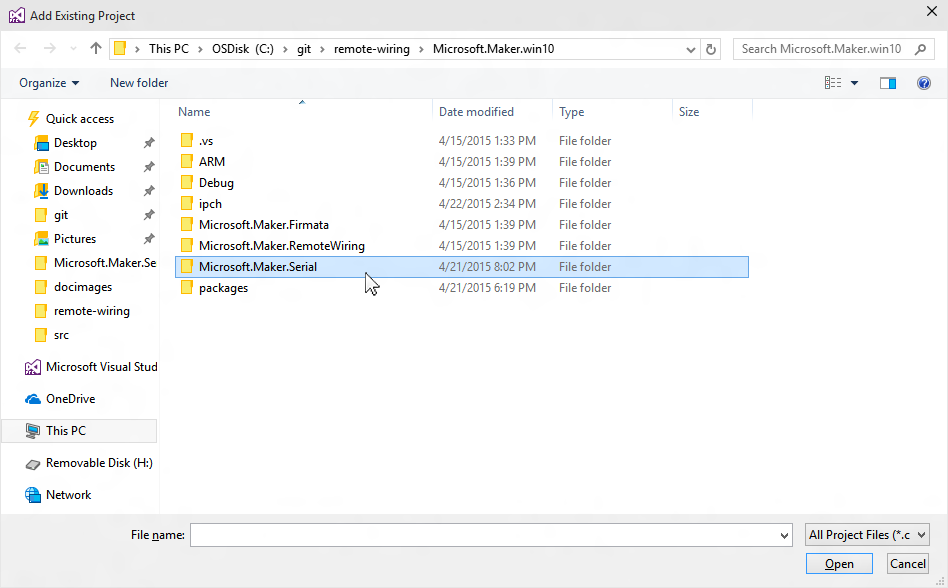
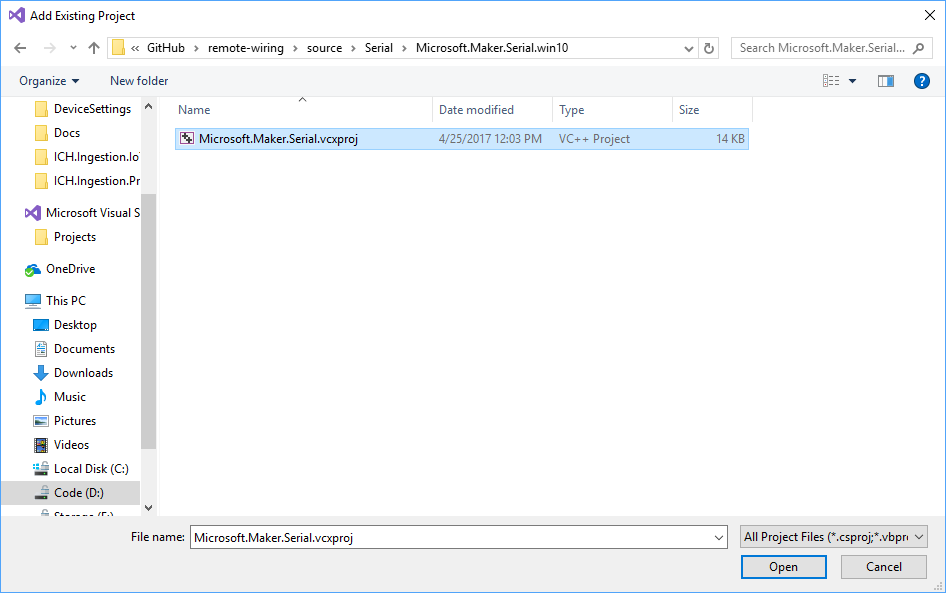
Bug 9772487 Feedback on WRA doc

diff --git a/_includes/setup-pc-wra.md b/_includes/setup-pc-wra.md
@@ -46,7 +46,7 @@
     <p><img src="{{site.baseurl}}/Resources/images/remote-wiring/compile_00.png" /></p>
   </li>
   <li>
-    <p>We need to add three projects - <b>Microsoft.Maker.Firmata</b>, <b>Microsoft.Maker.RemoteWiring</b>, and <b>Microsoft.Maker.Serial</b> - to the project solution.  Let's start with the Serial project (Microsoft.Maker.Serial). Open this directory.</p>
+    <p>We need to add three projects - <b>Microsoft.Maker.Firmata</b>, <b>Microsoft.Maker.RemoteWiring</b>, and <b>Microsoft.Maker.Serial</b> - to the project solution.  Let's start with the Serial project (Microsoft.Maker.Serial). Open the <b>source\Serial\Microsoft.Maker.Serial.win10</b> folder and add Microsoft Microsoft.Maker.Serial.vcxproj to the solution.</p>
     <p><img src="{{site.baseurl}}/Resources/images/remote-wiring/project_01.png" /></p>
   </li>
   <li>
